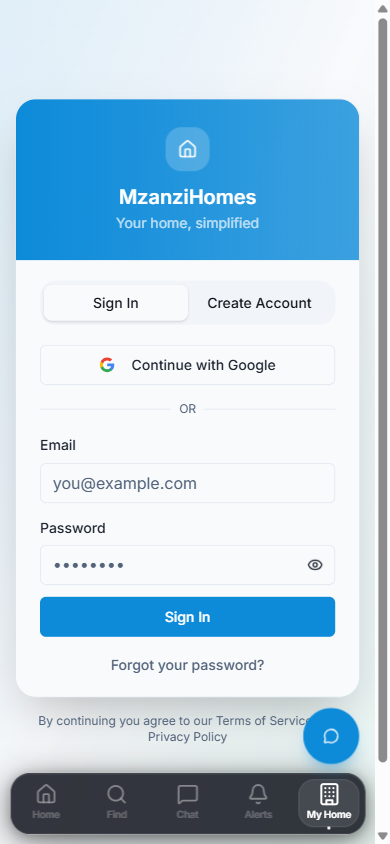
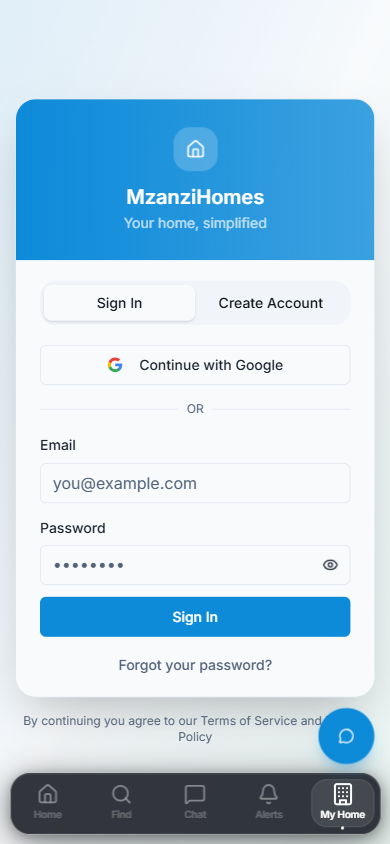
fix(play-store): remove scrollbars from screenshots, update feature graphic copy
- Feature graphic: replaced Paystack with Commission-free bullet, replaced
  50+ SA Cities with Auto Invoicing highlight — both now match homepage features
- All 5 raw screenshots retaken with scrollbars hidden via CSS injection
- Auth screenshot cleared of pre-filled email
- All 5 framed PNGs regenerated from updated raw sources

diff --git a/docs/play-store/feature-graphic.html b/docs/play-store/feature-graphic.html
@@ -87,13 +87,13 @@
           <div class="feat-icon">
             <svg viewBox="0 0 24 24"><path d="M12 22s8-4 8-10V5l-8-3-8 3v7c0 6 8 10 8 10z"/></svg>
           </div>
-          Verified listings &amp; digital KYC
+          Verified listings &amp; credit-checked tenants
         </div>
         <div class="feat">
           <div class="feat-icon">
-            <svg viewBox="0 0 24 24"><rect x="2" y="5" width="20" height="14" rx="2"/><line x1="2" y1="10" x2="22" y2="10"/></svg>
+            <svg viewBox="0 0 24 24"><line x1="12" y1="1" x2="12" y2="23"/><path d="M17 5H9.5a3.5 3.5 0 0 0 0 7h5a3.5 3.5 0 0 1 0 7H6"/></svg>
           </div>
-          Paystack-powered rent payments
+          Commission-free — keep 100% of your income
         </div>
         <div class="feat">
           <div class="feat-icon">
@@ -105,7 +105,7 @@
           <div class="feat-icon">
             <svg viewBox="0 0 24 24"><path d="M14 2H6a2 2 0 0 0-2 2v16a2 2 0 0 0 2 2h12a2 2 0 0 0 2-2V8z"/><polyline points="14 2 14 8 20 8"/><line x1="16" y1="13" x2="8" y2="13"/><line x1="16" y1="17" x2="8" y2="17"/></svg>
           </div>
-          Digital leases &amp; maintenance tracking
+          Digital leases, e-signatures &amp; maintenance
         </div>
       </div>
     </div>
@@ -118,8 +118,8 @@
           <div class="hl-label">No hidden agent fees</div>
         </div>
         <div class="hl">
-          <div class="hl-val">50+ SA Cities</div>
-          <div class="hl-label">Nationwide coverage</div>
+          <div class="hl-val">Auto Invoicing</div>
+          <div class="hl-label">Professional billing built-in</div>
         </div>
         <div class="hl">
           <div class="hl-val">Mobile-First</div>
@@ -127,7 +127,7 @@
         </div>
         <div class="hl">
           <div class="hl-val">Fully Digital</div>
-          <div class="hl-label">Apply, sign &amp; pay in-app</div>
+          <div class="hl-label">List, sign &amp; manage in-app</div>
         </div>
       </div>
     </div>
